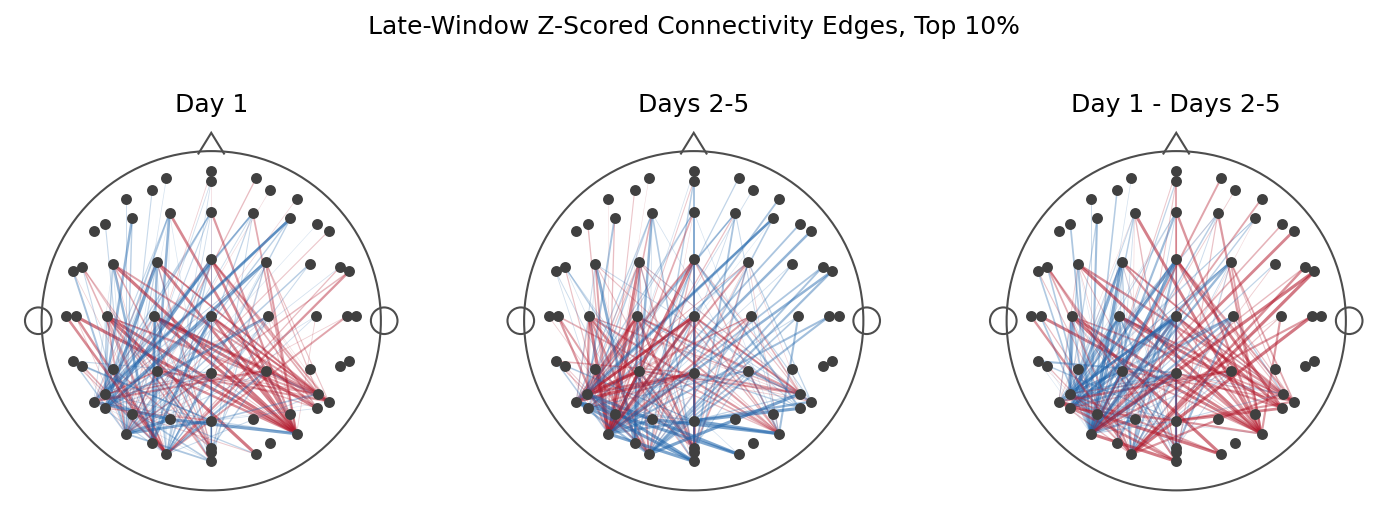
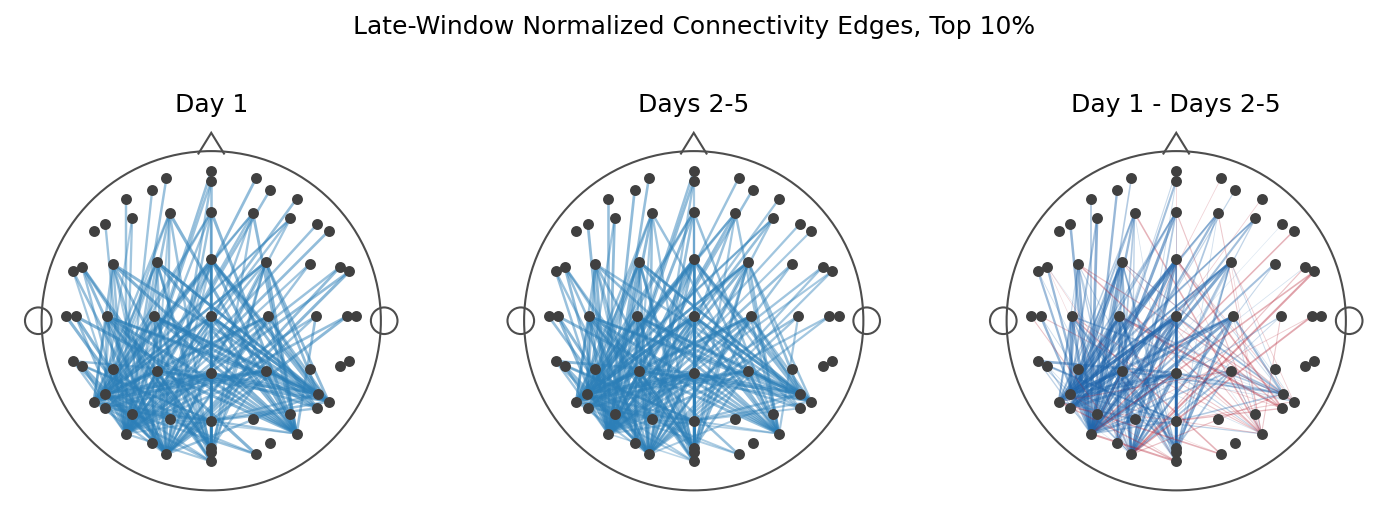
fig rev

diff --git a/code/presentation_figure.py b/code/presentation_figure.py
@@ -345,7 +345,7 @@ def draw_head_outline(ax):
     ax.add_patch(right_ear)
 
 
-def draw_edge_panel(ax, rows, layout, value_col, title, vlim):
+def draw_edge_panel(ax, rows, layout, value_col, title, vlim, signed=True):
     draw_head_outline(ax)
     ax.scatter(layout["x"], layout["y"], s=18, color="0.25", zorder=3)
     ch_pos = {}
@@ -359,8 +359,12 @@ def draw_edge_panel(ax, rows, layout, value_col, title, vlim):
         val = float(getattr(row, value_col))
         scaled = min(abs(val) / max(vlim, 1e-12), 1.0)
         color = "#b2182b"
-        if val < 0:
-            color = "#2166ac"
+        if signed:
+            if val < 0:
+                color = "#2166ac"
+        else:
+            scaled = min(max(val, 0.0) / max(vlim, 1e-12), 1.0)
+            color = "#2c7fb8"
         ax.plot(
             [x1, x2],
             [y1, y2],
@@ -389,6 +393,34 @@ def panel_vlim(rows, value_col):
     return float(np.nanpercentile(vals, 95))
 
 
+def minmax_normalized_edges(d):
+    norm_rows = []
+    group_cols = ["subject", "day"]
+    for key, g in d.groupby(group_cols):
+        subject, day = key
+        vals = g["conn_mean"].to_numpy(float)
+        min_val = float(np.nanmin(vals))
+        max_val = float(np.nanmax(vals))
+        denom = max_val - min_val
+        if denom <= np.finfo(float).eps:
+            continue
+        for row in g.itertuples(index=False):
+            norm_rows.append(
+                {
+                    "subject": int(subject),
+                    "day": int(day),
+                    "pair_label": row.pair_label,
+                    "ch_i": row.ch_i,
+                    "ch_j": row.ch_j,
+                    "conn_norm": (float(row.conn_mean) - min_val) / denom,
+                }
+            )
+    out = pd.DataFrame(norm_rows)
+    if out.empty:
+        raise ValueError("No normalized edge rows available")
+    return out
+
+
 def plot_presentation_connect_edges_for_window(
     edges,
     active,
@@ -401,34 +433,12 @@ def plot_presentation_connect_edges_for_window(
     d = edges[(edges["window"] == window) & edges["pair_label"].isin(pair_labels)]
     if d.empty:
         raise ValueError(f"No {window}-window top-10% edge rows available")
-    z_rows = []
-    group_cols = ["subject", "day"]
-    for key, g in d.groupby(group_cols):
-        subject, day = key
-        vals = g["conn_mean"].to_numpy(float)
-        mean_val = float(np.nanmean(vals))
-        std_val = float(np.nanstd(vals))
-        if std_val <= np.finfo(float).eps:
-            continue
-        for row in g.itertuples(index=False):
-            z_rows.append(
-                {
-                    "subject": int(subject),
-                    "day": int(day),
-                    "pair_label": row.pair_label,
-                    "ch_i": row.ch_i,
-                    "ch_j": row.ch_j,
-                    "conn_z": (float(row.conn_mean) - mean_val) / std_val,
-                }
-            )
-    d_z = pd.DataFrame(z_rows)
-    if d_z.empty:
-        raise ValueError(f"No z-scored {window}-window edge rows available")
+    d_norm = minmax_normalized_edges(d)
     rows = []
     for pair_label in sorted(pair_labels):
-        g = d_z[d_z["pair_label"] == pair_label]
-        d1 = g[g["day"] == 1]["conn_z"].to_numpy(float)
-        dl = g[g["day"] > 1]["conn_z"].to_numpy(float)
+        g = d_norm[d_norm["pair_label"] == pair_label]
+        d1 = g[g["day"] == 1]["conn_norm"].to_numpy(float)
+        dl = g[g["day"] > 1]["conn_norm"].to_numpy(float)
         if len(d1) == 0 or len(dl) == 0:
             continue
         row0 = g.iloc[0]
@@ -451,6 +461,7 @@ def plot_presentation_connect_edges_for_window(
         "day1",
         "Day 1",
         panel_vlim(plot_df, "day1"),
+        signed=False,
     )
     draw_edge_panel(
         axes[1],
@@ -459,6 +470,7 @@ def plot_presentation_connect_edges_for_window(
         "later",
         "Days 2-5",
         panel_vlim(plot_df, "later"),
+        signed=False,
     )
     draw_edge_panel(
         axes[2],
@@ -467,9 +479,10 @@ def plot_presentation_connect_edges_for_window(
         "difference",
         "Day 1 - Days 2-5",
         panel_vlim(plot_df, "difference"),
+        signed=True,
     )
     fig.suptitle(
-        f"{window.title()}-Window Z-Scored Connectivity Edges, Top 10%"
+        f"{window.title()}-Window Normalized Connectivity Edges, Top 10%"
     )
     fig.tight_layout(rect=[0, 0, 1, 0.9])
     fig_path = figures_dir / (
@@ -480,6 +493,75 @@ def plot_presentation_connect_edges_for_window(
     return fig_path
 
 
+def get_connect_three_window_bounds(output_dir):
+    shape = require_csv_any(
+        [
+            output_dir / "connect_sensorwide_model_posterior_shape_summary_top10.csv",
+            output_dir / "connect_sensorwide_model_posterior_shape_summary.csv",
+        ],
+        "connectivity posterior-shape output",
+    )
+    g = shape[
+        np.isclose(shape["active_pct"].astype(float), 0.10)
+        & (shape["contrast"] == "two_stage_hybrid_D1_minus_gradual")
+        & (shape["shape_model"] == "three_window")
+    ]
+    if g.empty:
+        raise ValueError(
+            "Missing top-10% three-window posterior-shape row. Run "
+            "ACTIVE_PCT=0.10 "
+            "python code/connect_sensorwide_model_posterior_shape_analysis.py first."
+        )
+    row = g.iloc[0]
+    return {
+        "early": (float(row["lb_early"]), float(row["ub_early"])),
+        "middle": (float(row["lb_middle"]), float(row["ub_middle"])),
+        "late": (float(row["lb_late"]), float(row["ub_late"])),
+    }
+
+
+def make_subject_window_edges(subject_df, active, window, bounds):
+    active = active[np.isclose(active["active_pct"].astype(float), 0.10)].copy()
+    pair_labels = set(active["pair_label"].tolist())
+    d = subject_df[
+        (subject_df["lock_type"] == "stim")
+        & (subject_df["band"] == "broadband")
+    ].copy()
+    d["pair_label"] = d["ch_i"].astype(str) + "--" + d["ch_j"].astype(str)
+    d = d[d["pair_label"].isin(pair_labels)].copy()
+    d["window_center_sec"] = d["lock_time"].astype(float) + 0.025
+    lo, hi = bounds
+    d = d[(d["window_center_sec"] >= lo) & (d["window_center_sec"] <= hi)].copy()
+    if d.empty:
+        raise ValueError(f"No subject connectivity rows for {window} bounds")
+    rows = []
+    group_cols = ["subject", "day", "pair_label", "ch_i", "ch_j"]
+    for key, g in d.groupby(group_cols):
+        subject, day, pair_label, ch_i, ch_j = key
+        vals = g["conn_val"].to_numpy(float)
+        vals = vals[np.isfinite(vals)]
+        if len(vals) == 0:
+            continue
+        rows.append(
+            {
+                "subject": int(subject),
+                "day": int(day),
+                "window": window,
+                "window_start_sec": float(lo),
+                "window_end_sec": float(hi),
+                "pair_label": str(pair_label),
+                "ch_i": str(ch_i),
+                "ch_j": str(ch_j),
+                "conn_mean": float(np.mean(vals)),
+                "n_time_bins": int(len(vals)),
+            }
+        )
+    out = pd.DataFrame(rows)
+    if out.empty:
+        raise ValueError(f"No subject window edge rows for {window}")
+    return out
+
+
 def plot_presentation_connect_edges(output_dir, figures_dir):
     edges = require_csv(
         output_dir / "connect_sensorwide_window_average_subject_edges.csv",
@@ -488,6 +570,10 @@ def plot_presentation_connect_edges(output_dir, figures_dir):
     active = require_csv(
         output_dir / "connect_sensorwide_model_timecourse_active_pairs.csv",
         "connectivity active-pair output",
+    )
+    subject = require_csv(
+        output_dir / "sensorwide_carpet_subject_timeseries.csv",
+        "connectivity subject carpet output",
     )
     layout = require_csv(
         output_dir / "sensorwide_channel_layout.csv",
@@ -504,8 +590,25 @@ def plot_presentation_connect_edges(output_dir, figures_dir):
                 window,
             )
         )
+    bounds = get_connect_three_window_bounds(output_dir)
+    middle_edges = make_subject_window_edges(
+        subject,
+        active,
+        "middle",
+        bounds["middle"],
+    )
+    paths.insert(
+        1,
+        plot_presentation_connect_edges_for_window(
+            middle_edges,
+            active,
+            layout,
+            figures_dir,
+            "middle",
+        ),
+    )
     legacy_path = figures_dir / "presentation_connectivity_d1_later_edges_top10.png"
-    shutil.copyfile(paths[1], legacy_path)
+    shutil.copyfile(paths[2], legacy_path)
     paths.append(legacy_path)
     return paths
 
@@ -915,8 +1018,9 @@ def save_fig_presentation(
     )
     connect_edge_paths = plot_presentation_connect_edges(output_dir, figures_dir)
     paths["connect_edges_early"] = connect_edge_paths[0]
-    paths["connect_edges_late"] = connect_edge_paths[1]
-    paths["connect_edges"] = connect_edge_paths[2]
+    paths["connect_edges_middle"] = connect_edge_paths[1]
+    paths["connect_edges_late"] = connect_edge_paths[2]
+    paths["connect_edges"] = connect_edge_paths[3]
     paths["mvpa_auc"] = plot_presentation_mvpa_auc(output_dir, figures_dir)
     paths["mvpa_peak_behavior"] = plot_presentation_mvpa_peak_behavior(
         output_dir, figures_dir
